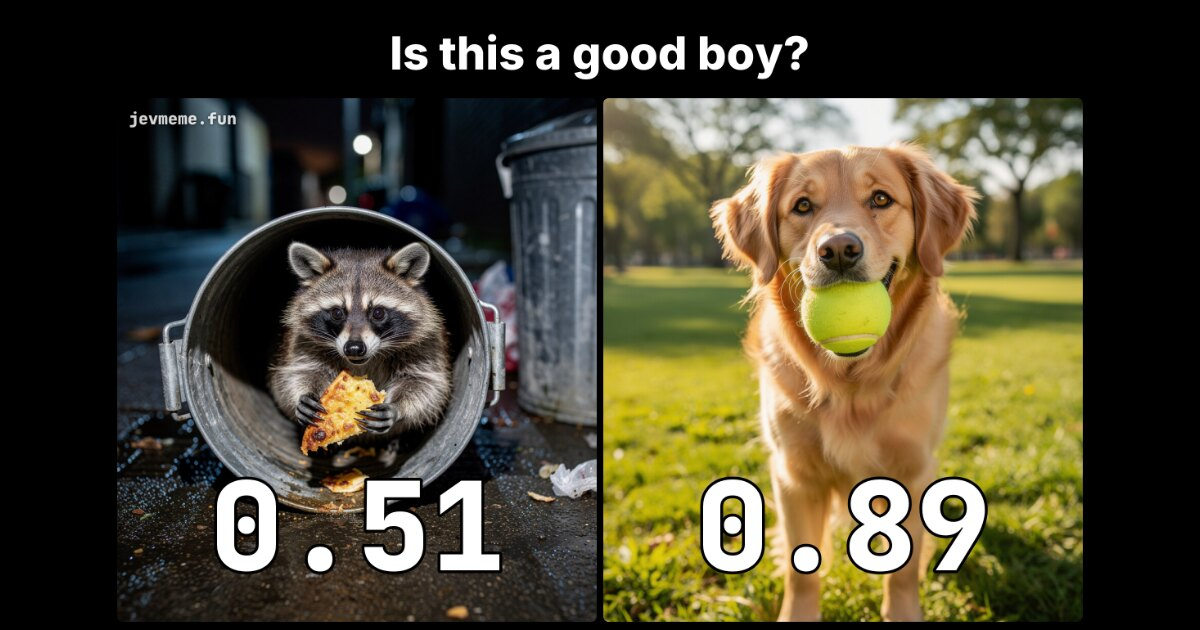
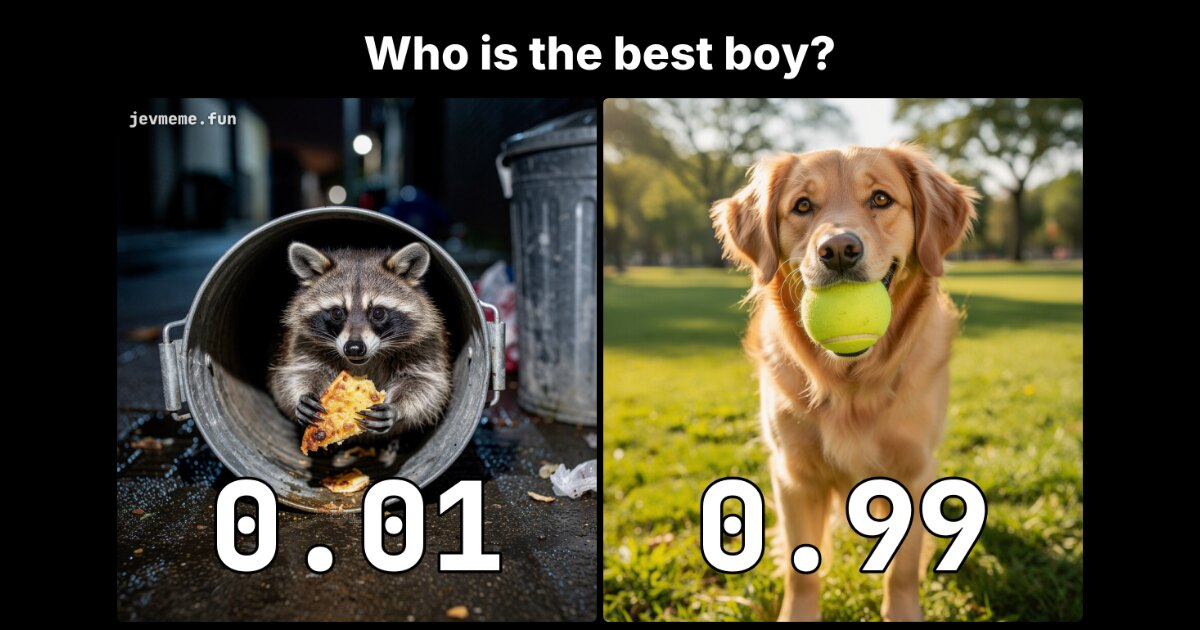
Best boy: pick-mode example and home link preview

Changed region(s): [[0.3083, 0.0603, 0.7092, 0.1206], [0.6783, 0.7841, 0.7708, 0.9349], [0.2775, 0.754, 0.37, 0.8746]]

diff --git a/lib/samples.ts b/lib/samples.ts
@@ -35,7 +35,7 @@ export type Preset = {
 
 // One-tap examples shown first on the home page.
 export const PRESETS: Preset[] = [
-  { format: "versus", photos: ["raccoon-trash", "dog-ball"], questions: ["Is this a good boy?"] },
+  { format: "versus", photos: ["raccoon-trash", "dog-ball"], questions: ["Who is the best boy?"] },
   { format: "versus", photos: ["hotdog", "taco"], questions: ["Which one is more of a sandwich?"] },
   { format: "versus", photos: ["stout-sip", "can-chug"], questions: ["Who loves their beverage more?"] },
   { format: "versus", photos: ["ladder", "harness"], questions: ["Is this OSHA compliant?"] },
@@ -57,7 +57,7 @@ export const PRESETS: Preset[] = [
 // Idea prompts as [Rate each, Pick one] pairs, so switching modes can rewrite
 // the question. Each side must read as its own mode to defaultMode().
 export const QUESTION_PAIRS: [each: string, pick: string][] = [
-  ["Is this a good boy?", "Who is the better boy?"],
+  ["Is this a good boy?", "Who is the best boy?"],
   ["Is this a sandwich?", "Which one is more of a sandwich?"],
   ["Does he enjoy his beverage?", "Who loves their beverage more?"],
   ["Is this OSHA compliant?", "Which one is more OSHA compliant?"],
